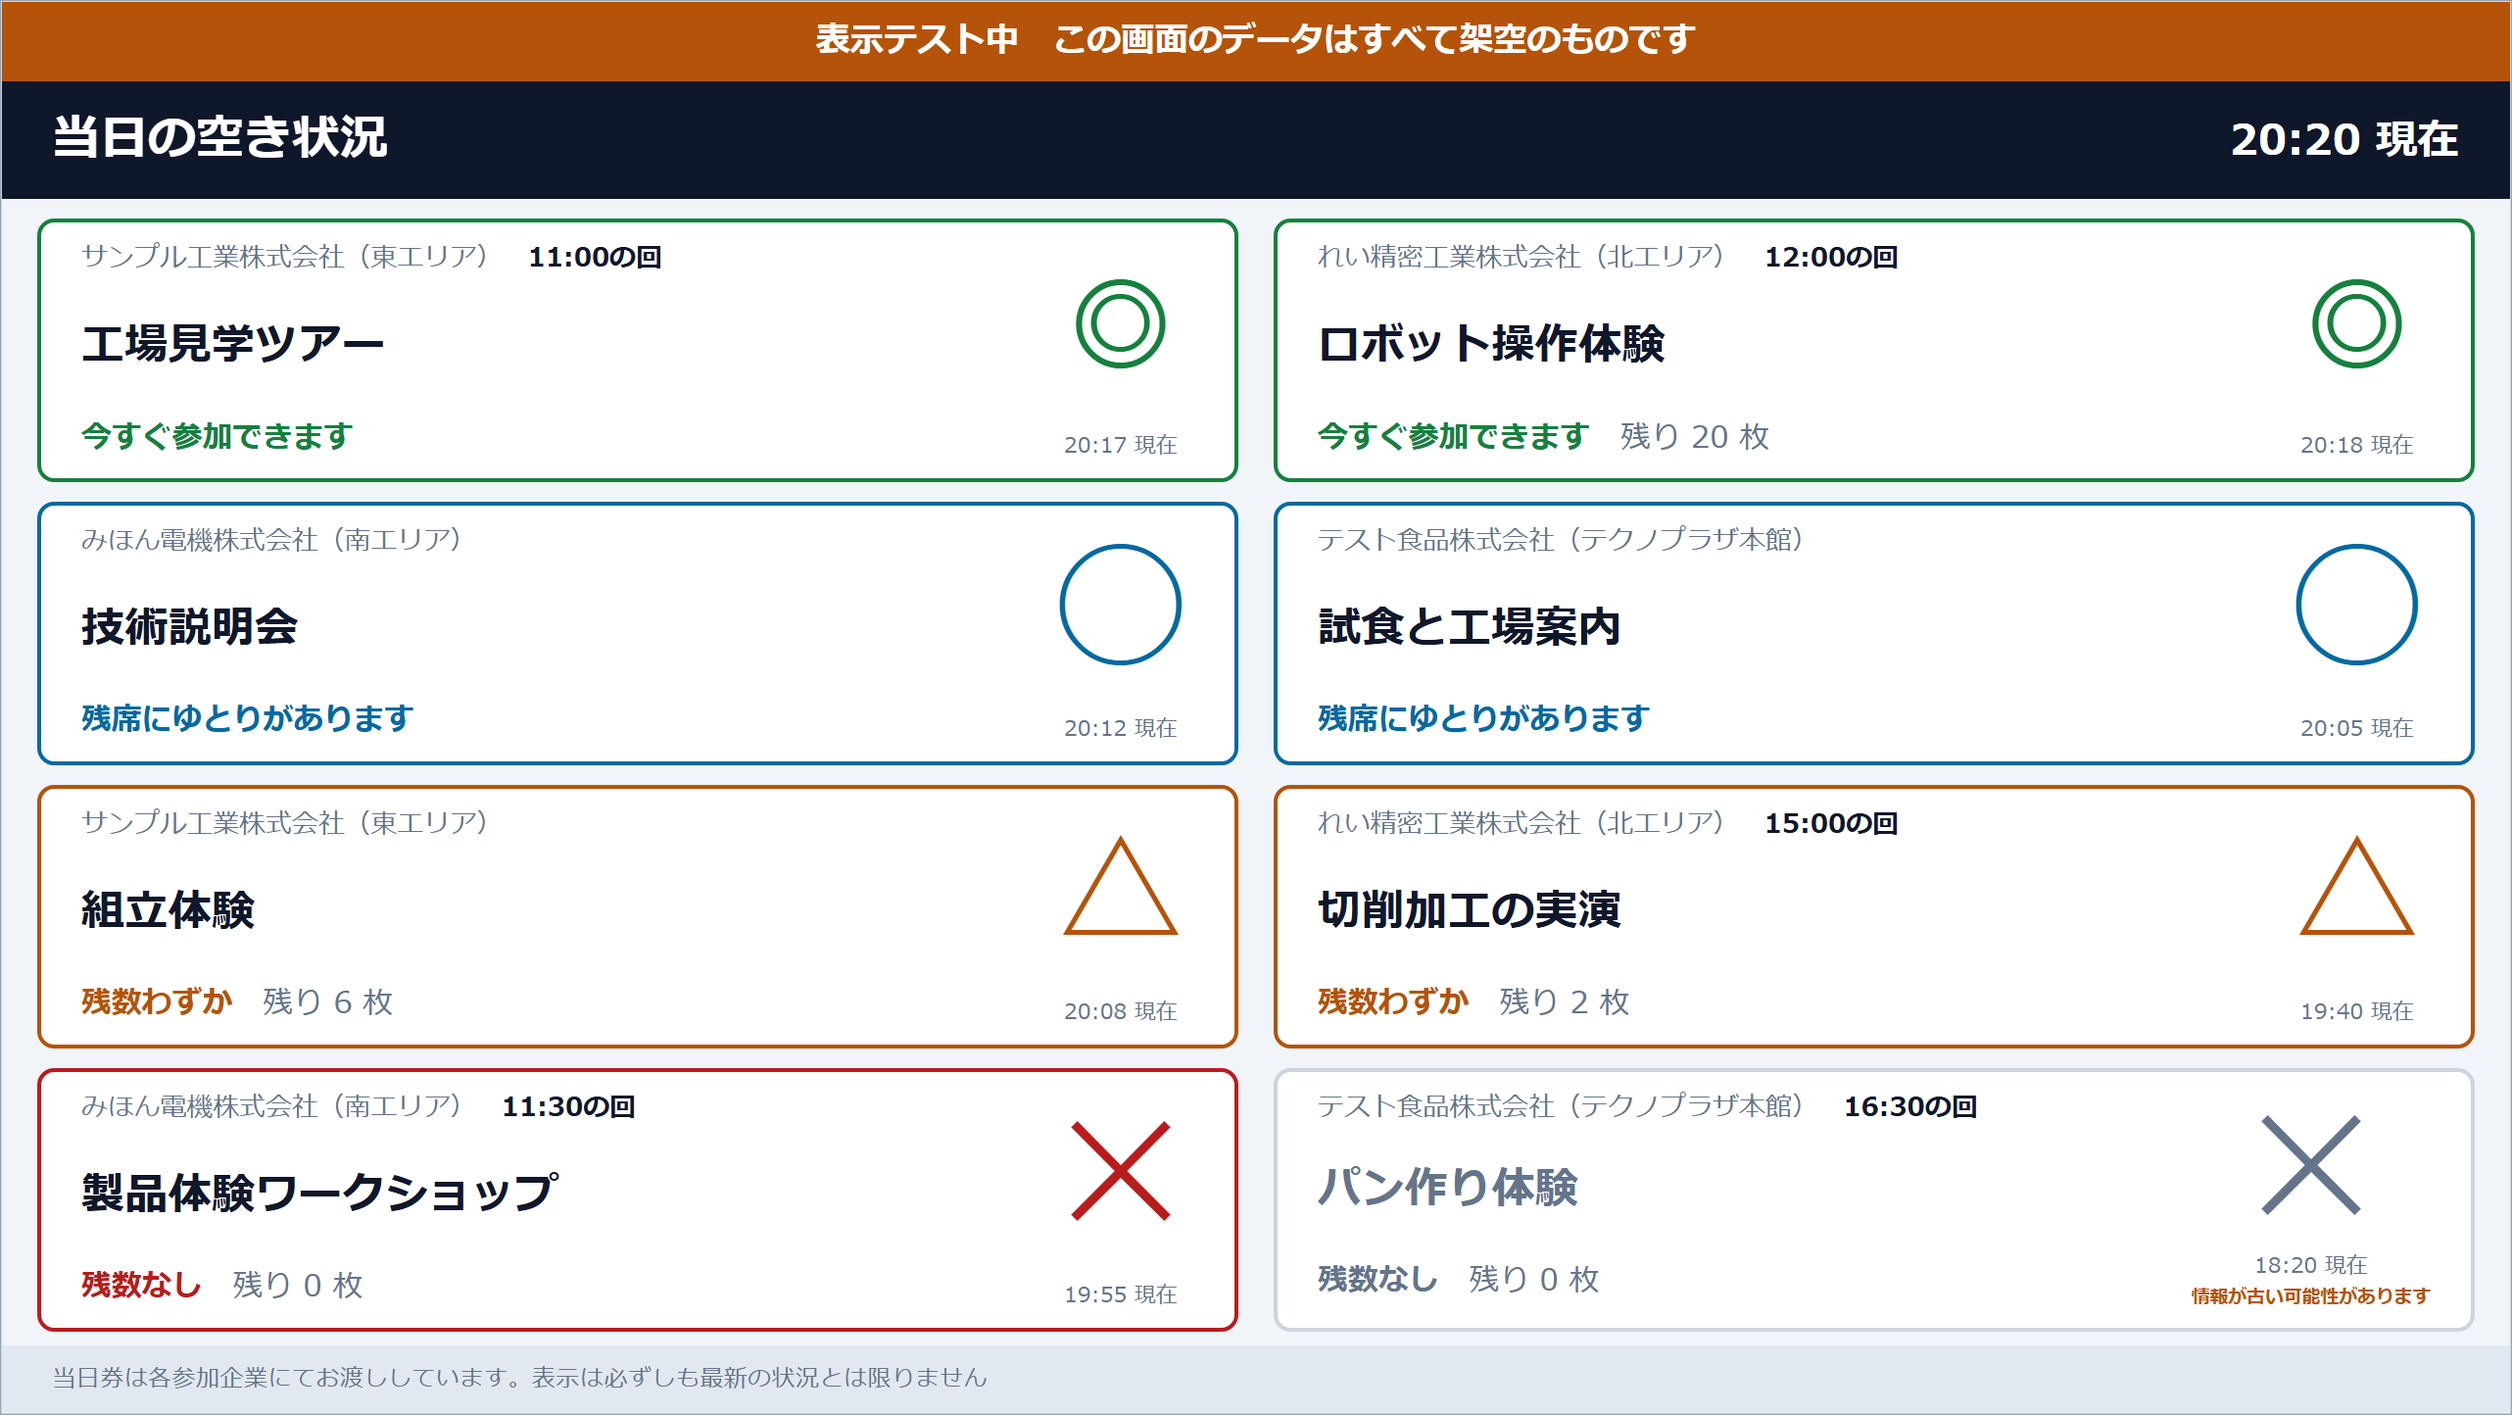
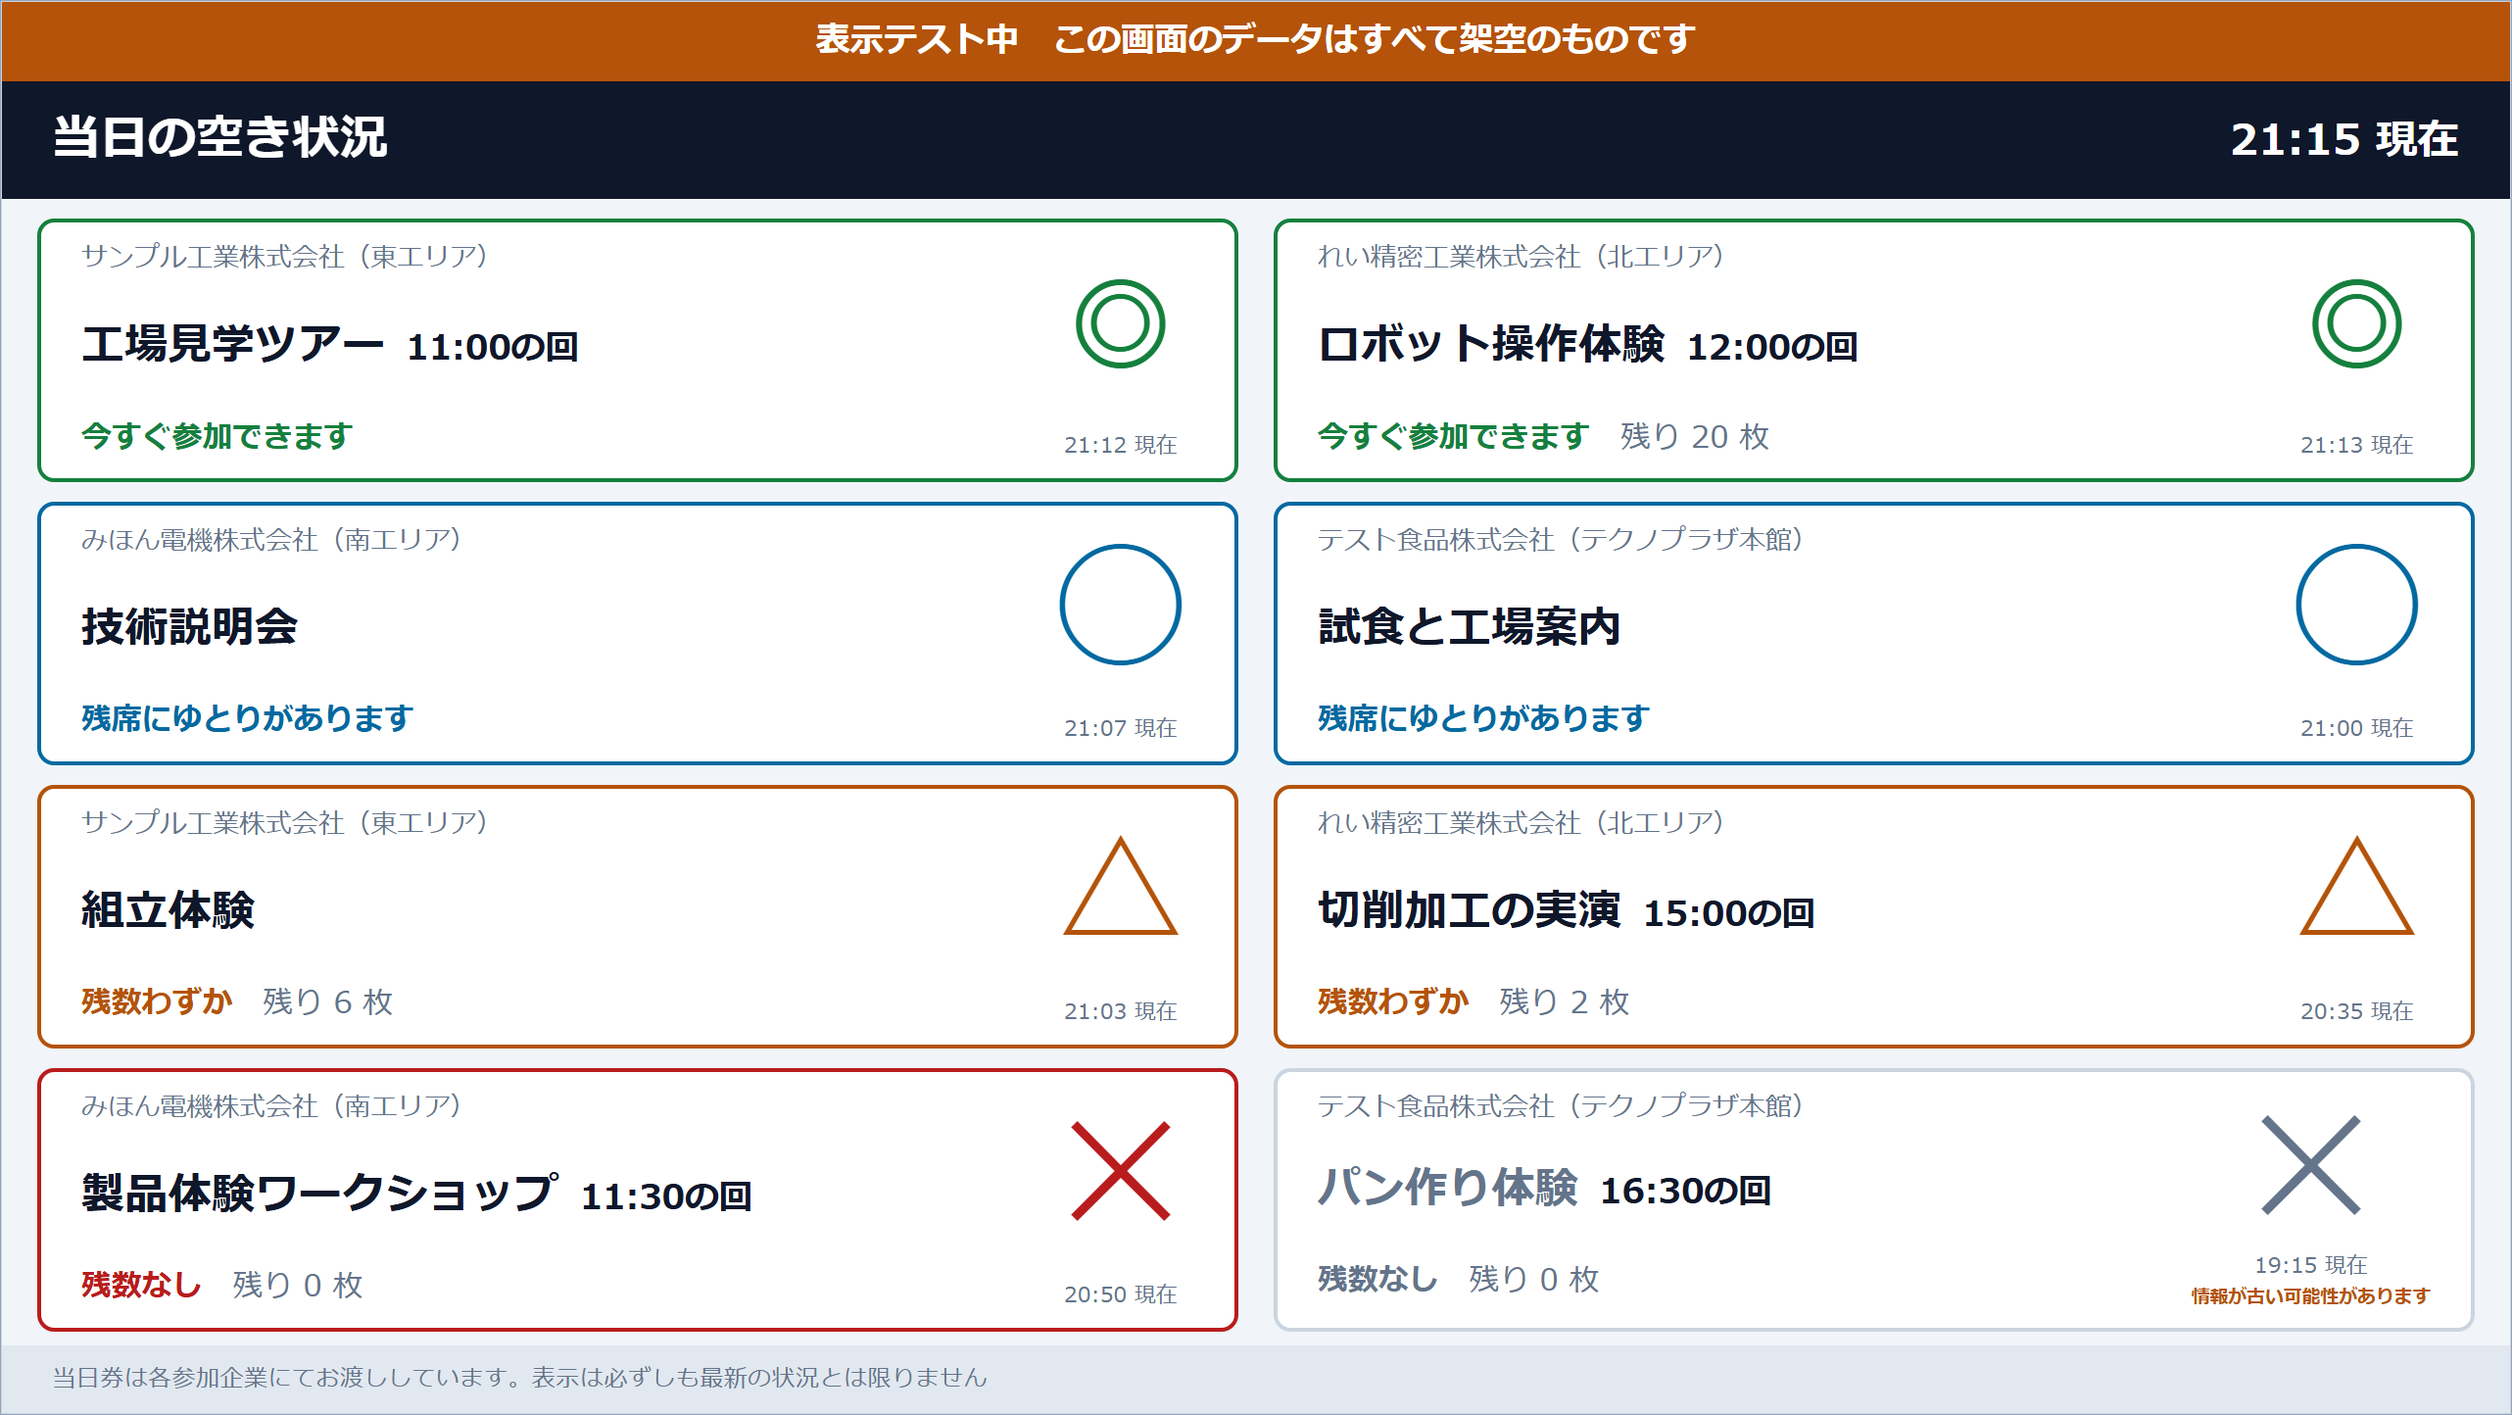
Stop serving yesterday's stylesheet, and tidy the card it broke
The filter buttons showing up as bare underlined links was not a style
choice, it was a cached stylesheet. Rendering the embed against signage.css
as it stood before the filter bar existed reproduces exactly what was
reported - and it is worst there because signage.css is the only stylesheet
that page loads, so an old copy leaves .btn defined nowhere at all. Nothing
in /assets/css/signage.css told a browser when it had changed, and the
screens it runs on are a venue display stick and visitors' phones, neither
of which anybody can be asked to clear.

So asset() puts the file's own timestamp on the URL: it changes when the
file does and not otherwise, so a deploy invalidates the copy and an
untouched file stays cached.

With that fixed, two things about the card. The round has moved from the
company's line to after the programme name - sharing a line, the company
name was the half that got ellipsised, and nobody can find a company in
"サンプル工業株…". And the title and controls now stay put while the cards
scroll under them, as one sticky block rather than two: pinned separately,
the filter needed the title bar's height written into the stylesheet as a
number, and the number was eight pixels wrong as soon as the title wrapped.

The filter rows scroll sideways instead of wrapping. Wrapped, three rows
became six on a phone and took a third of the screen - which only matters
now that the block is pinned there.

diff --git a/public/assets/css/signage.css b/public/assets/css/signage.css
@@ -38,6 +38,7 @@ html, body {
 }
 
 .sg { display: flex; flex-direction: column; }
+.sg-top { flex: none; }
 
 /* ---------------------------------------------------------------- header */
 
@@ -85,29 +86,28 @@ html, body {
   color: inherit;
 }
 
-/*
- * Company, area, and - on a round - when it is. Laid out so the company name
- * is the part that gives way: a long one is ellipsised, while "15:00の回"
- * keeps its full width, because that is the half a visitor acts on.
- */
+/* Company and area, with the whole line to themselves. */
 .sg-card__meta {
   grid-column: 1;
-  display: flex;
-  align-items: baseline;
-  gap: 1vw;
   min-width: 0;
 }
 
 .sg-card__company {
+  display: block;
   color: var(--sg-muted);
   white-space: nowrap;
   overflow: hidden;
   text-overflow: ellipsis;
-  min-width: 0;
 }
 
+/*
+ * The round, after the programme it belongs to. Smaller than the title and
+ * unbreakable, so "15:00の回" stays on the title's last line where there is
+ * room for it, rather than taking a line of its own on every card.
+ */
 .sg-card__slot {
-  flex: none;
+  margin-left: .6em;
+  font-size: .78em;
   font-weight: 700;
   color: var(--sg-ink);
   font-variant-numeric: tabular-nums;
@@ -270,12 +270,25 @@ html, body {
 .sg--embed .sg-card__mark      { font-size: 44px; min-width: 50px; }
 .sg--embed .sg-card__label     { font-size: 13px; }
 .sg--embed .sg-card__remaining { margin-left: 6px; }
-.sg--embed .sg-card__meta      { gap: 8px; }
 .sg--embed .sg-card__when      { font-size: 11px; white-space: normal; }
 .sg--embed .sg-card__stale     { font-size: 10px; margin-top: 2px; }
 .sg--embed .sg-foot            { font-size: 11px; padding: 8px 14px; }
 .sg--embed .sg-preview         { font-size: 13px; padding: 6px 14px; }
 .sg--embed .sg-empty           { font-size: 16px; padding: 40px 14px; }
+
+/*
+ * Title and controls stay put while the cards scroll under them. Plain
+ * sticky, no script - and it works inside an iframe because the iframe is
+ * the thing that scrolls, which is why the documented embed snippet gives
+ * it a height. Pinned as one block rather than two, so nothing has to know
+ * how tall the title bar came out.
+ */
+.sg--embed .sg-top {
+  position: sticky;
+  top: 0;
+  z-index: 3;
+  box-shadow: 0 6px 6px -6px rgba(15, 23, 42, .25);
+}
 
 /* A card that can be pressed should say so where there is a pointer. */
 @media (hover: hover) {
@@ -344,7 +357,24 @@ a.sg-card:focus-visible { outline: 3px solid var(--sg-ink); outline-offset: 2px;
 }
 .sg-filter .vac-filter { margin: 0 0 8px; gap: 5px; }
 .sg-filter .vac-filter__label { font-size: 11px; color: var(--sg-muted); min-width: 3em; }
-.sg-filter .vac-filter__row { gap: 5px; }
+/*
+ * One line per row, scrolled sideways rather than wrapped. This page
+ * loads no other stylesheet, so the rule app.css carries for the public
+ * page has to be repeated here - and it matters more here, because the
+ * whole block is pinned: wrapped, three rows became six on a phone and
+ * took a third of the screen with them.
+ */
+.sg-filter .vac-filter__row {
+  display: flex;
+  align-items: center;
+  gap: 5px;
+  overflow-x: auto;
+  scrollbar-width: none;
+  -webkit-overflow-scrolling: touch;
+}
+.sg-filter .vac-filter__row::-webkit-scrollbar { display: none; }
+.sg-filter .vac-filter__row > .btn { flex: none; }
+.sg-filter .vac-filter { display: grid; gap: 5px; }
 /* app.css is not loaded here, so the buttons need their own look. */
 .sg-filter .btn {
   display: inline-block;

diff --git a/public/assets/css/app.css b/public/assets/css/app.css
@@ -344,10 +344,42 @@ input[type=number] { max-width: 140px; }
    nothing in this feature uses JavaScript, so that a venue display stick
    with an old browser runs the same screens as a phone. */
 .vac-filter { margin: 0 0 16px; display: grid; gap: 6px; }
-.vac-filter__row { display: flex; flex-wrap: wrap; gap: 6px; align-items: center; }
+/*
+ * One line per row, scrolled sideways rather than wrapped. Wrapped, the three
+ * rows became five or six on a phone and took a quarter of the screen - which
+ * matters because the whole thing is sticky below.
+ */
+.vac-filter__row {
+  display: flex;
+  gap: 6px;
+  align-items: center;
+  overflow-x: auto;
+  scrollbar-width: none;
+  -webkit-overflow-scrolling: touch;
+}
+.vac-filter__row::-webkit-scrollbar { display: none; }
+.vac-filter__row > .btn { flex: none; }
 .vac-filter__label {
   font-size: 12px;
   color: var(--ink-soft);
   min-width: 3.5em;
   flex: none;
+}
+
+/*
+ * The public page keeps its heading in the flow - there is explanation and a
+ * pair of tabs above it, and pinning all of that would leave no page. The
+ * controls are what a reader comes back to, so those are what stays.
+ */
+.vac-filter--sticky {
+  position: sticky;
+  top: 0;
+  z-index: 3;
+  background: var(--bg);
+  padding: 8px 0;
+  margin-left: -16px;
+  margin-right: -16px;
+  padding-left: 16px;
+  padding-right: 16px;
+  box-shadow: 0 6px 6px -6px rgba(15, 23, 42, .18);
 }

diff --git a/tests/test_base_path.php b/tests/test_base_path.php
@@ -57,5 +57,26 @@ $assert(Request::stripBasePath('/booking/public/index.php/admin', '/booking'), '
 // A path that merely starts with the same letters must survive intact.
 $assert(Request::stripBasePath('/publicity/1', ''), '/publicity/1', 'lookalike segment not eaten');
 
+// --- asset(): the same URL, plus something that changes when the file does --
+// A stylesheet with no version in its URL is a stylesheet a browser keeps
+// until it feels like letting go. That showed on the availability board,
+// where signage.css is the only stylesheet the page loads: a copy cached
+// from before the filter bar existed left every button as a bare underlined
+// link, on a venue display stick nobody can clear.
+$css = asset('/assets/css/app.css');
+$assert(str_starts_with($css, url('/assets/css/app.css')), true,
+    'asset() is url() with something on the end, so mount prefixes still work');
+$assert((bool) preg_match('/\?v=\d+$/', $css), true,
+    'and what is on the end is a number - the file\'s own timestamp');
+
+$assert(asset('/assets/css/app.css'), $css,
+    'an unchanged file gets the same URL every time, or nothing would ever stay cached');
+$assert(asset('/assets/css/app.css') === asset('/assets/css/signage.css'), false,
+    'and two different files do not share one');
+
+// A path that is not there must not take the page down with it.
+$assert(asset('/assets/css/nope.css'), url('/assets/css/nope.css'),
+    'a missing file falls back to the plain path - a stale URL beats a blank page');
+
 echo $failures === 0 ? "base path: all OK\n" : "base path: {$failures} failure(s)\n";
 exit($failures === 0 ? 0 : 1);

diff --git a/src/helpers.php b/src/helpers.php
@@ -38,6 +38,27 @@ function url(string $path = '/'): string
     return e(App\Core\Request::basePath() . $path);
 }
 
+/**
+ * url() for a file under public/, with the file's own timestamp on the end.
+ *
+ * Browsers and proxies keep a stylesheet as long as they are allowed to, and
+ * nothing in a plain /assets/css/app.css tells them when it changed. That bit
+ * worst on the availability board: signage.css is the only stylesheet that
+ * page loads, so a copy cached from before the filter bar existed left every
+ * button as a bare underlined link - and it runs on a venue display stick and
+ * on visitors' phones, neither of which anybody can be asked to clear.
+ *
+ * The stamp changes only when the file does, so a deploy invalidates the copy
+ * while an untouched file stays cached. A missing file falls back to the plain
+ * path rather than throwing: a stale URL beats a blank page.
+ */
+function asset(string $path): string
+{
+    $stamp = @filemtime(APP_ROOT . '/public' . $path);
+
+    return url($path) . ($stamp !== false ? '?v=' . $stamp : '');
+}
+
 /** Format a DATETIME string as "2026-08-20 (木) 10:00". */
 function jp_datetime(string $datetime): string
 {

diff --git a/templates/partials/vacancy_filter.php b/templates/partials/vacancy_filter.php
@@ -17,7 +17,9 @@
  * @var array{area: ?string, words: array<int, string>, q: string, full: bool} $filter
  * @var array<int, string> $keywords
  * @var array<string, string> $areas  value => label, only the ones in use
+ * @var bool $sticky  keep the controls on screen while the list scrolls
  */
+$sticky ??= false;
 $link = static function (array $changed) use ($base, $keep, $filter): string {
     $query = $keep + array_filter([
         'area' => $filter['area'],
@@ -37,7 +39,7 @@ $link = static function (array $changed) use ($base, $keep, $filter): string {
 };
 
 ?>
-<div class="vac-filter">
+<div class="vac-filter<?= $sticky ? ' vac-filter--sticky' : '' ?>">
   <?php /* Only the areas that have a company in them. One kept open for a
            company that has not joined yet would be a button whose only
            possible answer is "nothing here". */ ?>

diff --git a/templates/pub/vacancy.php b/templates/pub/vacancy.php
@@ -85,6 +85,9 @@ $status = static function (?array $report, string $prefix = ''): string {
       'filter' => $filter ?? ['area' => null, 'words' => [], 'q' => '', 'full' => true],
       'keywords' => $keywords ?? [],
       'areas' => $areas ?? [],
+      // Pinned on the page, where a reader scrolls a long list and wants the
+      // controls back without going to the top for them.
+      'sticky' => true,
   ]) ?>
 
 <?php if ($rows === []): ?>

diff --git a/templates/layouts/public.php b/templates/layouts/public.php
@@ -12,7 +12,7 @@ $pageTitle = isset($title) && $title !== '' ? $title . ' | ' . $siteTitle : $sit
 <meta charset="utf-8">
 <meta name="viewport" content="width=device-width, initial-scale=1">
 <title><?= e($pageTitle) ?></title>
-<link rel="stylesheet" href="<?= url('/assets/css/app.css') ?>">
+<link rel="stylesheet" href="<?= asset('/assets/css/app.css') ?>">
 </head>
 <body>
 <header class="site-header">

diff --git a/templates/layouts/admin.php b/templates/layouts/admin.php
@@ -17,7 +17,7 @@ $user = Auth::user();
 <meta name="viewport" content="width=device-width, initial-scale=1">
 <meta name="robots" content="noindex">
 <title><?= e($pageTitle) ?></title>
-<link rel="stylesheet" href="<?= url('/assets/css/app.css') ?>">
+<link rel="stylesheet" href="<?= asset('/assets/css/app.css') ?>">
 </head>
 <body>
 <header class="admin-header">

diff --git a/docs/manual-vacancy.md b/docs/manual-vacancy.md
@@ -197,12 +197,20 @@
 **ページ送りをしません。** 全件が 1 枚に並び、指でスクロールして読みます。
 枠の幅に合わせて**1 列・2 列・3 列**と自動で変わります。
 
+**タイトルと絞り込みは、スクロールしても上に残ります。**
+長い一覧を下まで見てから絞り込み直すのに、先頭まで戻る必要はありません。
+絞り込みのボタンが画面に収まらないときは、**その行を横に動かして**ください。
+
 ほかのサイトに貼るときは、次のように `iframe` で読み込んでください。
 
 ```html
 <iframe src="（サイトのURL）/vacancy?display=embed"
         style="width:100%;height:600px;border:0" title="当日の空き状況"></iframe>
 ```
+
+> **`height` は必ず指定してください。** 中身に合わせて伸びる作りにすると
+> `iframe` 自体がスクロールしなくなり、**タイトルと絞り込みの固定が効きません**
+> （外側のページが動くだけになります）。
 
 > **スマートフォンの方には、この URL か公開ページをご案内してください。**
 > サイネージ用の URL をスマホで開いても読めますが、**20〜30 秒でページが勝手に変わります。**
